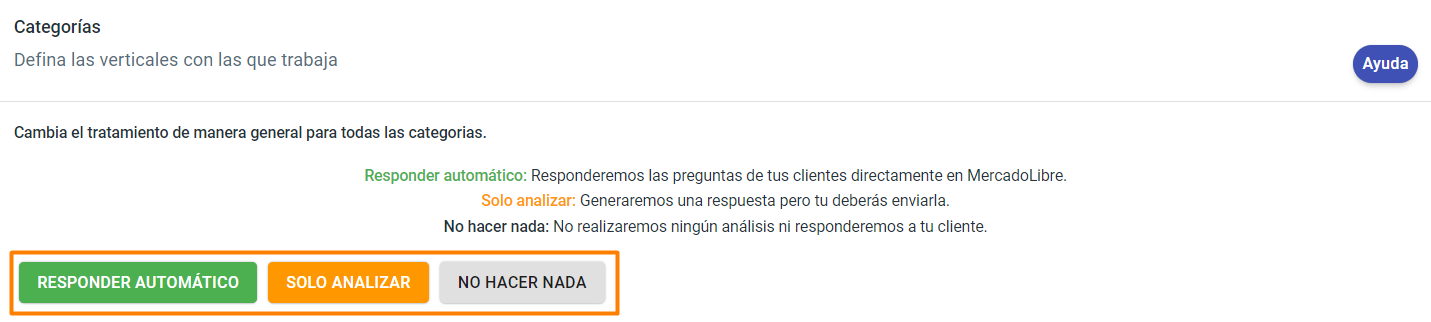
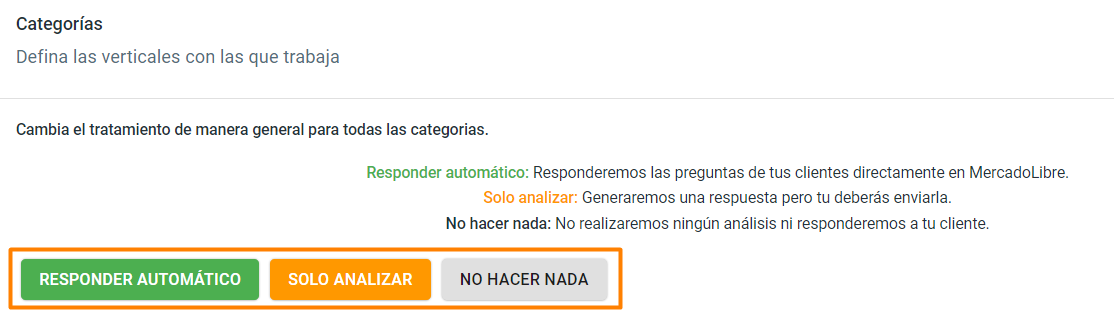
21 9

diff --git a/content/docs/Personaliza_tu_cuenta_de_botmeni/Configuración_comportamiento_respuesta/Comportamiento_respuesta.md b/content/docs/Personaliza_tu_cuenta_de_botmeni/Configuración_comportamiento_respuesta/Comportamiento_respuesta.md
@@ -10,10 +10,10 @@ draft: false
 toc: true
 ---
 Botmeni puede configurarse para gestionar las respuestas en tres modos diferentes:
-{{< figure width="420px" height="300px" src="/images/general/responder_automatico.png" >}}
+{{< figure width="280px" height="200px" src="/images/general/responder_automatico.png" >}}
 Responder Automático: La pregunta se responderá automáticamente, siempre que la plataforma evalúe que la calidad de la respuesta generada es adecuada. <br></br>
-{{< figure width="420px" height="300px" src="/images/general/soloanalizar.png" >}}
+{{< figure width="2800px" height="200px" src="/images/general/soloanalizar.png" >}}
 Sólo análisis: La pregunta se analizará y se generará una respuesta, pero ésta no será enviada a Mercado Libre. Quedará pendiente para que la revises manualmente y tú la envíes. <br></br>
-{{< figure width="420px" height="300px" src="/images/general/nohacernada.png" >}}
+{{< figure width="280px" height="200px" src="/images/general/nohacernada.png" >}}
 No hacer nada: las preguntas que lleguen no serán procesadas por Botmeni, por lo cual no se realizará ningún análisis ni se enviará un respuesta al cliente.	<br></br>
 

diff --git a/content/docs/Personaliza_tu_cuenta_de_botmeni/Configuración_comportamiento_respuesta/Comportamiento_general_de_tienda.md b/content/docs/Personaliza_tu_cuenta_de_botmeni/Configuración_comportamiento_respuesta/Comportamiento_general_de_tienda.md
@@ -15,5 +15,5 @@ Para establecer el comportamiento de respuesta del bot de modo general para tu t
 2. Haz clic en CONFIGURACIÓN.
 {{< figure width="280px" height="200px" src="/images/general/configuracion.png" >}}
 3. Presiona sobre el botón que especifica la clase de comportamiento general que deseas establecer: Responder Automático, Solo Analizar o No hacer nada.
-{{< figure width="700px" height="500px" src="/images/general/categoriageneral.png" >}}
+{{< figure width="980px" height="700px" src="/images/general/categoriageneral.png" >}}
 
